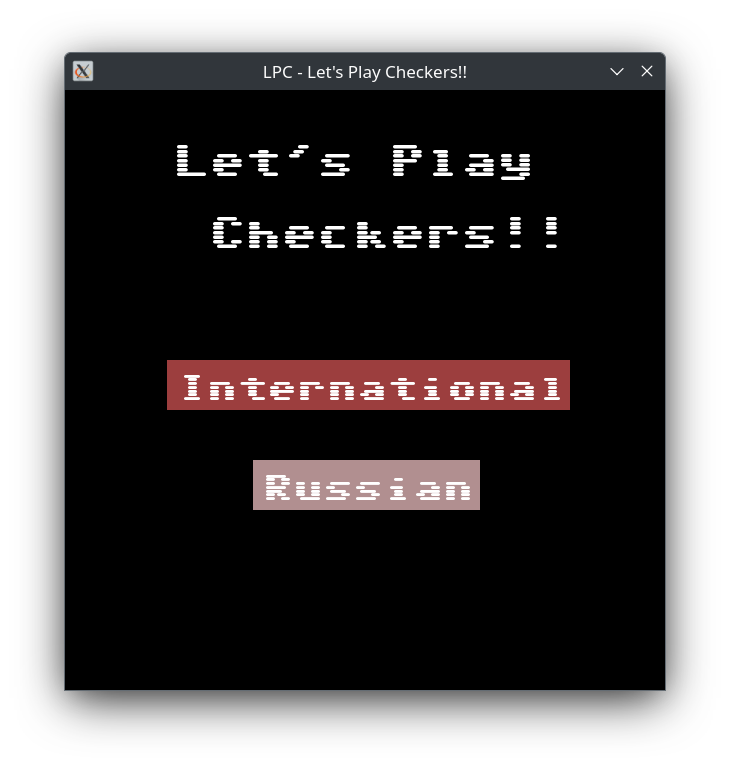
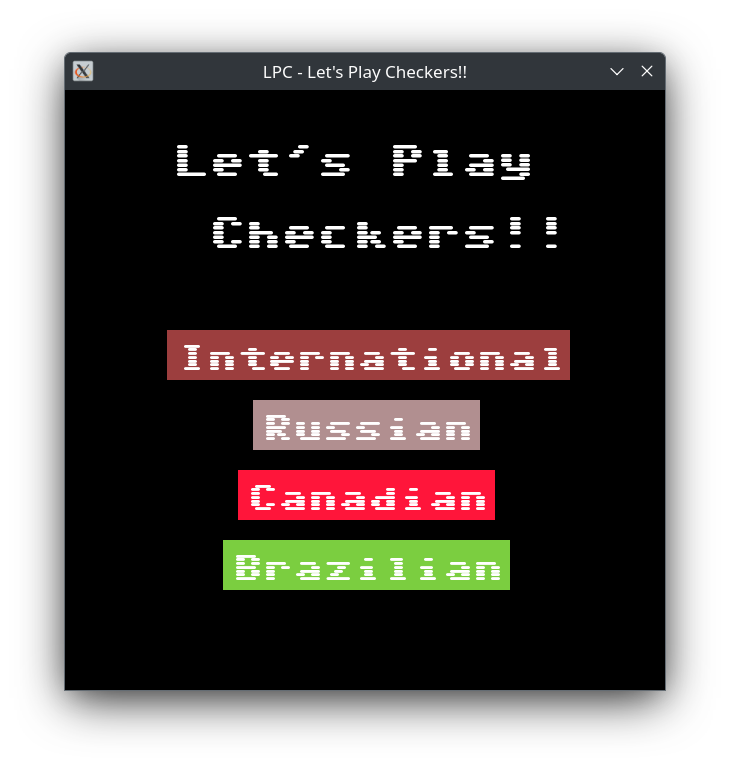
Updated README.md

Changed region(s): [[0.211, 0.4198, 0.7836, 0.7797]]

diff --git a/README.md b/README.md
@@ -1,14 +1,18 @@
 # LPC -  Let's Play Checkers!!
 
 A classic Checkers (Draughts) game written in modern C++20, featuring both local two-player mode and various AI opponents, rendered with SFML.<br/>
-International and Russian checkers is supported now.
+The following checkers variants are supported:
+- **International**
+- **Russian**
+- **Canadian**
+- **Brazilian**
 
 ---
 
 ## Features
 
 - **Board Logic**  
-  - 10×10 (or 8×8 in case of Rissian checkers) board with automatic move generation and capture rules.  
+  - Board with automatic move generation and capture rules.  
   - Piece promotion (regular to queen) at the opposite side.  
   - Chained captures supported (multiple jumps in one turn).  
 
@@ -52,7 +56,7 @@ This project is split into three main parts:
 
 1. **Checkers-logic**
    - **`Checkers`** class: Handles all move logic, captures, piece promotion, and maintains the turn order. Stores **Board**
-   - **`Board`** class: Maintains both 8×8 and 10x10 grid using space-efficient std::array. sizeof(Board) = 51
+   - **`Board`** class: Maintains 8×8 (Russian and Brazilian), 10×10 (International) and 12×12 (Canadian) grid using space-efficient std::array.
    - Exposes functions for retrieving valid moves, making moves, and resetting the board.
    - Tracks game result and winner determination.
 
@@ -117,7 +121,7 @@ mkdir -p build && cd build && cmake -DCMAKE_BUILD_TYPE=Release .. && make
 ## Usage
 
 1. Launch the game — a window will open with the main menu.
-2. Select Checkers type (`International` or `Russian`).
+2. Select Checkers type (`International`, `Russian`, `Canadian`, `Brazilian`).
 3. Select Game Mode — either play against the computer (`With Computer`) or another human locally (`Two Players`).
 4. (Computer mode only) Choose Your Colour — play as White or Black.
 5. (Computer mode only) Select Difficulty — choose from `Novice`, `Easy`, `Medium`, `Hard`, or `Grandmaster`.
@@ -127,23 +131,22 @@ mkdir -p build && cd build && cmake -DCMAKE_BUILD_TYPE=Release .. && make
 ---
 
 ## TODO
-1. **Add Additional Variants / Rules**
-    - Option for `12×12` Canadian Checkers.
-
-2. **Implement Undo / Redo**
+1. **Implement Undo / Redo**
     - Track and revert moves for convenience.
 
-3. **Improve AI**
+2. **Improve AI**
     - Implement a transposition table or caching.
     - Add multhithreading (`Grandmaster` mode can be faster).
 
-4. **Online Multiplayer**
+3. **Online Multiplayer**
     - Introduce network play for remote two-player matches.
 
-5. **UI Enhancements**
+4. **UI Enhancements**
     - Turn the board around if playing for black against the computer.
     - Animate piece captures more smoothly.
     - Add sounds and a game timer.
 
-6. **Automated Testing**
+5. **Automated Testing**
     - Add unit tests for critical Board methods and engine functionality.
+
+6. **Add Documentation**
